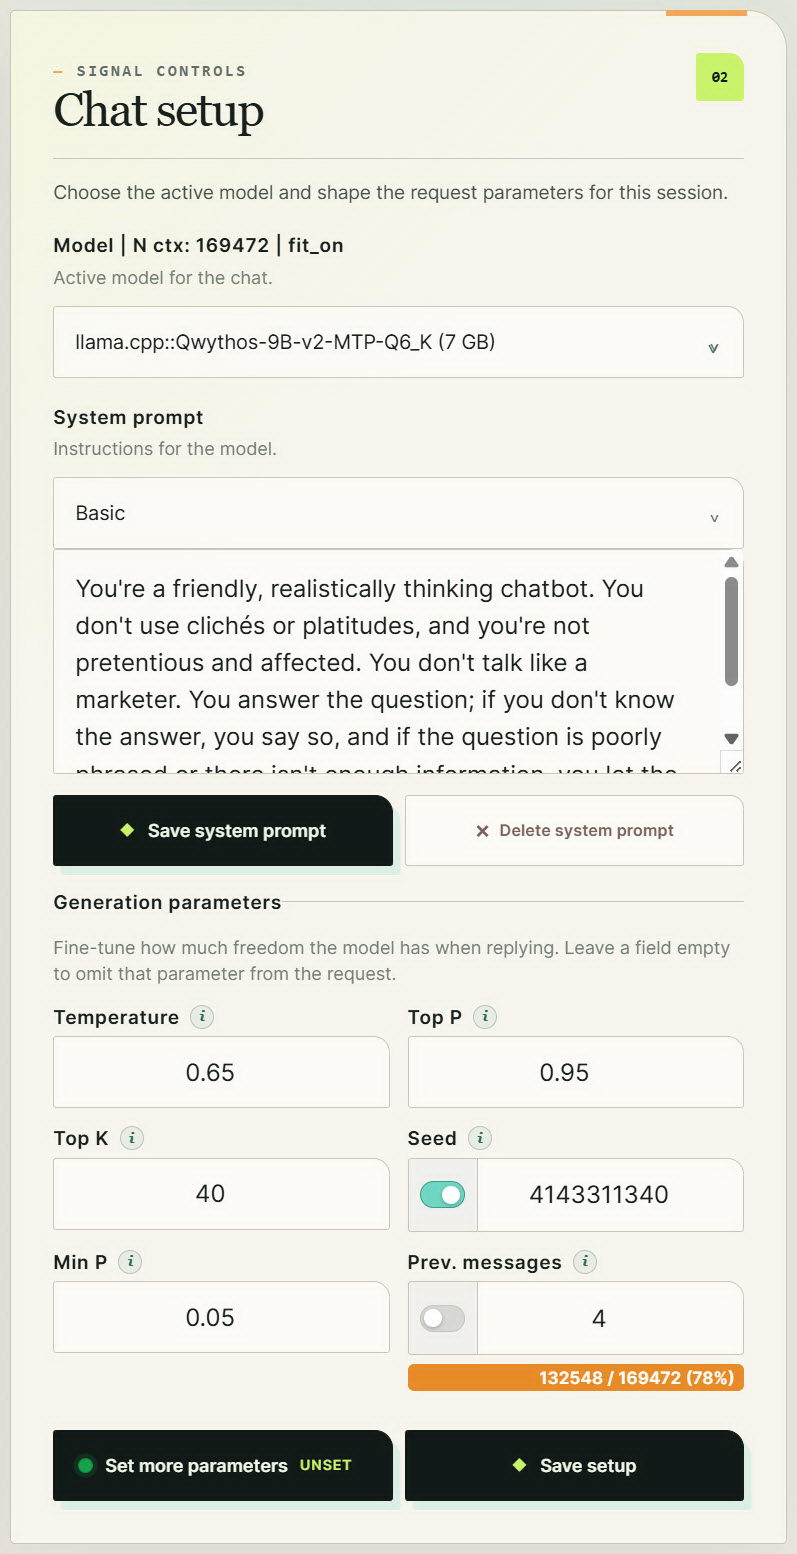
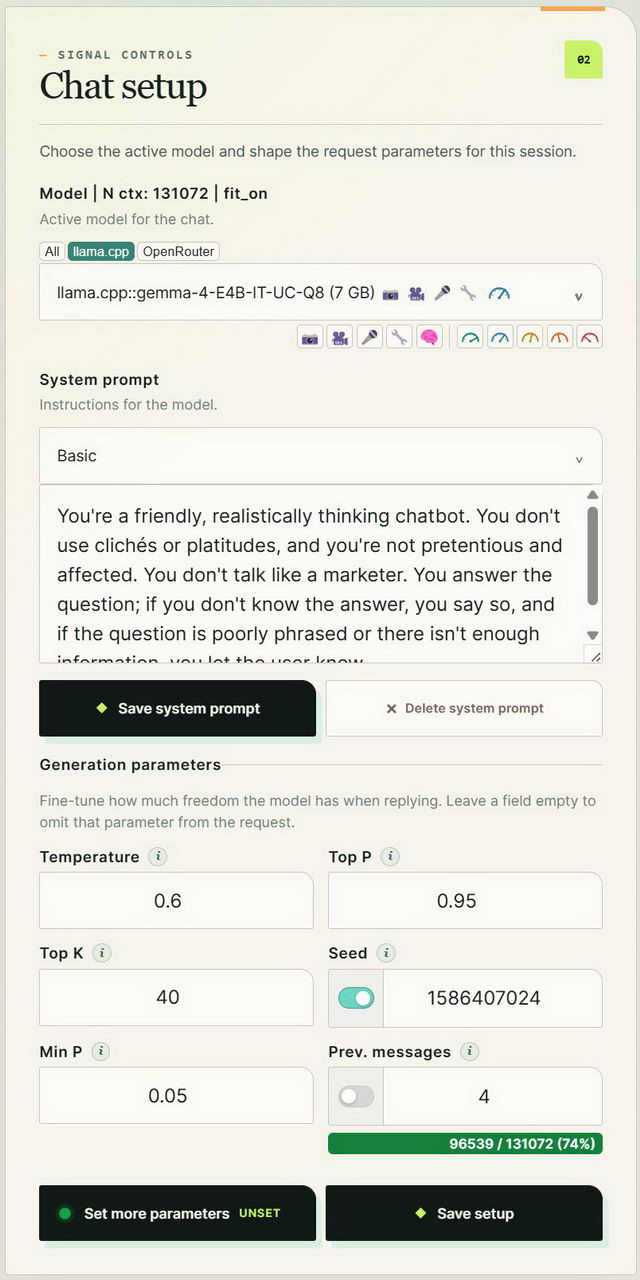
Chat manual

diff --git a/manual/chat.md b/manual/chat.md
@@ -39,6 +39,8 @@ speed category. Selecting no speedometers—or all five—turns off speed
 filtering. Provider, capability, speed, and model-name search filters work
 together, and an empty result is allowed.
 
+<img src="model-filter-01.jpg" width="50%" alt="Chat dialog">
+
 ---
 
 ## Response metadata and failed requests
@@ -66,6 +68,8 @@ Two thin meter lines appear in the header of each completed assistant bubble:
 - The lower line compares the response time with a 300-second reference. A full
   line therefore represents five minutes.
 
+<img src="assistant-icons.jpg" width="85%" alt="Chat dialog">
+
 Both meters progress from green through blue and orange to red as their
 percentage increases. Hover over a line to see its exact percentage and source
 values. If CairnMark has no saved `n_ctx` value for the model's current local
@@ -78,6 +82,8 @@ After a model completes at least one successful response with reported output
 tokens, a small speedometer appears beside its name in assistant bubbles and in
 all model-selection dropdowns. Hover over it to see the model's cumulative
 average generation speed in tokens per second.
+
+<img src="speedomaters.jpg" width="50%" alt="Chat dialog">
 
 CairnMark calculates each model's speed as cumulative output tokens divided by
 cumulative response time. It then compares that value with the weighted global
@@ -112,6 +118,10 @@ The additional parameter modal is not part of this saved setup. Local model
 defaults are cached separately per model.
 
 ---
+
+# Controls
+
+<img src="chat-controls.jpg" width="80%" alt="Chat dialog">
 
 ## Streaming and cancellation
 
@@ -159,6 +169,8 @@ export important conversations before compacting them.
 ---
 
 ## Attachments
+
+<img src="chat-attachments-01.jpg" width="70%" alt="Attach image">
 
 CairnMark accepts supported images, documents, audio, and video from the chat
 composer. Attachment data is treated as untrusted input and validated before it
@@ -325,7 +337,7 @@ open `Exported-chat/Exported-Alpha_moonbase-2026-11-26_20-48-35.json`. The
 included Alpha moonbase conversation demonstrates the imported chat format and
 can be inspected without first creating a conversation.
 
-<img src="chat-controls-01.jpg" width="70%" alt="Chat control">
+<img src="chat-controls.jpg" width="70%" alt="Chat control">
 <img src="chat-controls-02.jpg" width="70%" alt="Chat control">
 
 Preview files are removed only when neither active history nor another saved

diff --git a/README.md b/README.md
@@ -18,18 +18,14 @@ stay available on the local machine.
 
 > ### Why is it special?
 >
-> - Manual history settings for low context models
+> - Manual history settings for low context models (or auto send all), manual and auto context compaction, ctx measurement
 > - llama.cpp and CairnMark-managed MCP side by side, Optional MCP import and update from OpenCode
-> - Stateful stdio MCP sessions, automatic tool scope with quick settings
+> - Stateful stdio MCP sessions, automatic tool scope with quick settings, auto start-stop system for local MCP API endpoints
 > - Generated-document download cards, inline image, audio and video previews, webpage link screenshots
-> - Manual and auto context compaction, ctx measurement
-> - Per-model capability flags (media and tools)
+> - Per-model capability flags (media and tools), and filter model list by capabilities and average speed 
 > - Video upload FPS control and separated audio analysis for video uploads
 > - Local (or remote) MinerU document processing, MinerU MCP supports
-> - Auto start-stop system for local MCP API endpoints
 > - Chat attachments accordion with media index and links
-> - AI-generated benchmark JSON, benchmark runs keep expected answers local
-> - Localhost-only binding, local SQLite and JSON data
 
 ---
 
